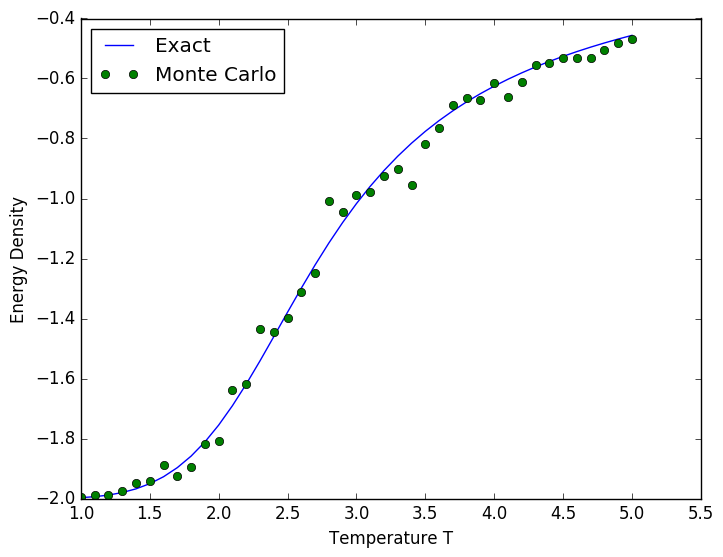
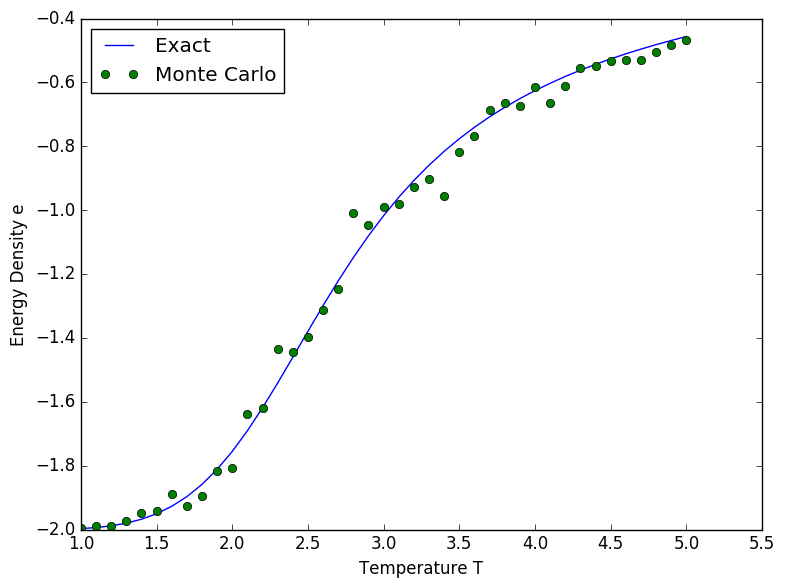
finished draft of sim5

diff --git a/sim5/latex/ising.tex b/sim5/latex/ising.tex
@@ -1,0 +1,85 @@
+\section{Simulating the Ising Model}
+Now we will look to simulate the two dimensional Ising spin model on an $(L \times L)$ square lattice.	The total energy of the system is 
+\begin{equation}
+\frac{1}{2}\sum_{i=0}^{L-1}\sum_{j=0}^{L-1}E_{i,j}
+\end{equation}
+with
+\begin{equation}
+E_{i,j} = -\sigma_{i,j}(\sigma_{i+1,j} + \sigma_{i-1,j} + \sigma_{i,j+1} + \sigma_{i,j-1}).
+\end{equation}
+Spins can take the values $\pm 1$ and we use periodic boundary conditions.
+
+The observables we are interested in are the energy density
+\begin{equation}
+e =\left \langle \frac{E}{L^2}\right\rangle
+\end{equation}
+and the magnetization density
+\begin{equation}
+m = \langle |\mu| \rangle
+\end{equation}
+\begin{equation}
+\mu = \frac{1}{L^2} \sum_{i=0}^{L-1}\sum_{j=0}^{L-1}\sigma_{i,j}
+\end{equation}
+
+The measurement of the total energy $E$ and magnetization density $\langle\mu\rangle$ for a given state are implemented as
+\listfile{../src/ising_lib.py}{src/ising\_lib.py}{16}{31}{Observable Measurement}{observe}
+\subsection{Exact Summation}
+We begin by computing the expectation values of these two observables directly from the partition function. This is possible if we use a box size of $L=4$ which we will use for the rest of the worksheet. Expectation values of observables can be calculated by
+\begin{equation}
+\left\langle A \right\rangle = \frac{\sum_\Phi A_\phi e^{-E_\phi /T}}{\sum_\Phi e^{-E_\phi /T}}.
+\label{eq:part}
+\end{equation}
+In order to calculate this sum we need to generate every possible state of the finite 2D Ising system. We do this by counting to $2^{16}$ in binary. All the necessary states are represented by all of the 16 digit binary numbers. We simply replace $0$ with $-1$ and map back onto a square lattice. The following function performs the neccesary generation.
+\listfile{../src/ising_lib.py}{src/ising\_lib.py}{44}{56}{State Generation}{states}
+
+Equipped with the set of states, we are prepared to calculate the sum in \ref{eq:part} for various temperatures $T = {1.0, 1.1, ..., 4.9, 5.0}$. This is accomplished for our observables of interest with the next code block.
+\listfile{../src/ising_exact.py}{src/ising\_exact.py}{6}{16}{Exact Summation}{exact}
+
+The blue curve in figures \ref{fig:ising_e} and \ref{fig:ising_m} show the expectaion values of our two observables due to exact summation.
+\subsection{Monte Carlo}
+The exact calculation in the preceding section is quite slow and will not withstand a simulation with more spins so we will use Monte Carlo simulation to obtain the same information. We will use the Metropolis-Hastings algorithm to select states. One Monte Carlo step is implemented as follows.
+\listfile{../src/ising_lib.py}{src/ising\_lib.py}{33}{42}{Monte Carlo Step}{isingmc}
+We then run $10000$ MC steps for each of our previously listed temperatures.
+\listfile{../src/ising_mc.py}{src/ising\_mc.py}{5}{15}{MC Simulation}{isingmcdat}
+The points in figures \ref{fig:ising_e} and \ref{fig:ising_m} show the values of magnetization and energy density measured via Monte Carlo.
+\subsection{Error Analysis}
+Since each step in our simulation is derived from the previous one, the data is obviously correlated and we can't use the obvious method for estimating error. In this case we will use binning analysis. This involves breaking our time series into $N_B$ bins. If the bin length $k$ is large enough then these bins will be uncorrelated. Clearly $\bar{O}_B = \bar{O}$ and we can calculate the squared error as
+\begin{equation}
+\epsilon^2_{\bar{O}} = \frac{1}{N_B(N_B-1))}\sum_{n=1}^{N_B}(O_{B,n} - \bar{O})^2,
+\end{equation}
+correlation time as
+\begin{equation}
+\tau = \frac{k \epsilon^2_{\bar{O}}}{2 N \sigma^2_{O_i}},
+\end{equation}
+and effective sample size as 
+\begin{equation}
+N_{\mathrm{eff}} = N/2\tau
+\end{equation}
+In order to take care of the free parameter k, we perform the entire error analysis with $1 \leq k \leq N/10$ and take the highest autocorrelation time.
+\listfile{../src/ising_lib.py}{src/ising\_lib.py}{65}{93}{Error Analysis}{error}
+
+In order to test our error analysis we will calculate statistics about a bivariate Gaussian. We use the following function to generate samples from a bivariate Gaussian.
+\listfile{../src/ising_lib.py}{src/ising\_lib.py}{58}{63}{Bivariate Gaussian}{gauss}
+We choose $N = 1e6$ and $\rho = 0.99005$ and the autocorrelation time is known to be
+\begin{equation}
+\tau = \frac{1}{2}\frac{1+\rho}{1-\rho} \approx 100.003
+\end{equation}
+Using our error\_analysis function we find
+\begin{equation}
+\bar{O}=-0.0054, \quad k = 15625, \quad \tau = 104.2, \quad N_\mathrm{eff} = 4699.6, \quad \epsilon^2_{\bar{O}} = 0.0143
+\end{equation}
+Finally we use our analysis program to calculate the error in the MC measurements of energy and magnetization density.
+\begin{figure}[ht]
+	\centering
+	\includegraphics[width=0.7\textwidth]{../fig/errorplot_e.png}
+	\caption{
+		Energy density of our 2D Ising spin system as a function of temperature. The blue curve is due to exact summation and the points refer to the Monte Carlo algorithm. Error bars are calculated using binning analysis.}
+	\label{fig:ising_e}
+\end{figure}
+\begin{figure}[ht]
+	\centering
+	\includegraphics[width=0.7\textwidth]{../fig/errorplot_m.png}
+	\caption{
+		Magnetization density of our 2D Ising spin system as a function of temperature. The blue curve is due to exact summation and the points refer to the Monte Carlo algorithm. Error bars are calculated using binning analysis.}
+	\label{fig:ising_m}
+\end{figure}

diff --git a/sim5/src/ising_lib.py b/sim5/src/ising_lib.py
@@ -31,8 +31,7 @@ def mag(state, L):
     return np.abs(mu/(L*L))
 
 def montecarlo(T, state, L):
-    # Performs a single Monte Carlo step on a state with side length L using the 
-    # Metropolis-Hastings algorithm
+    # Performs a single Monte Carlo step on a state with side length L using the Metropolis-Hastings algorithm
     i = np.random.randint(0,L)
     j = np.random.randint(0,L)
     delta = 2*state[i,j]*(state[(i-1)%L,j] + state[(i+1)%L,j] + state[i,(j+1)%L] 
@@ -43,8 +42,7 @@ def montecarlo(T, state, L):
         state[i,j] *= -1
 
 def generate(states):
-    # Generates all possible states with a side length L = 4. Don't judge me for this
-    # monstrosity.
+    # Generates all possible states with a side length L = 4
     state = np.zeros([4,4])
     for i in range(2**16):
         binstr = "{0:b}".format(i)
@@ -65,8 +63,9 @@ def bivariate_gaussian(N, rho):
     return e
 
 def error_analyze(e):
-    # Given a time series of observables, returns the mean, size of bins, autocorrelation time,
-    # effective number of samples, and measured error of the mean using binning analysis
+    # Given a time series of observables, returns the mean, size of bins,
+    # autocorrelation time, effective number of samples, 
+    # and measured error of the mean using binning analysis
     k_final = 0
     tau_final = 0
     N_eff = 0

diff --git a/sim5/latex/sim5.tex b/sim5/latex/sim5.tex
@@ -100,7 +100,8 @@ exponent-product=\cdot }
 \newcommand{\dd}{\text{d}} 							% Differential
 \newcommand{\p}{\partial} 								% Partielles Differential
 \newcommand{\D}{\Delta} 								% Fehler / Laplace
-\newcommand{\order}[1]{\mathcal{O}\left( #1 \right)}
+\newcommand{\order}[1]{\math\newpage
+cal{O}\left( #1 \right)}
 \newcommand{\abs}[1]{\left| #1\right|} 					% Betrag
 \newcommand{\Max}[1]{\max \left\lbrace #1\right\rbrace} % max{}
 \newcommand{\Min}[1]{\min \left\lbrace #1\right\rbrace} % min{}
@@ -129,7 +130,8 @@ exponent-product=\cdot }
 \newcommand{\Tan}[1]{\text{tan}\left( #1 \right)}		% tan()
 \newcommand{\Asin}[1]{\text{asin}\left( #1 \right)}		% asin()
 \newcommand{\Acos}[1]{\text{acos}\left( #1 \right)}		% acos()
-\newcommand{\Atan}[1]{\text{atan} \left( #1 \right)}	% atan()
+\newcommand{\Atan}[1]{\text{at\newpage
+an} \left( #1 \right)}	% atan()
 
 % Eigene Vektor Kommandos
 \newcommand{\tovec}[2]{\begin{pmatrix}#1\\ #2\end{pmatrix}}	% 2D-Vektor
@@ -219,8 +221,7 @@ matriculation numbers: &3122118 &3216338\\
 
 \input{simple.tex}
 \input{importance}
-
-
+\input{ising}
 
 \end{document}
 

diff --git a/sim5/src/ising_plot.py b/sim5/src/ising_plot.py
@@ -17,12 +17,14 @@ plt.plot(T, e0, label='Exact')
 plt.plot(T, e2, 'o', label='Monte Carlo')
 plt.legend(loc='best')
 plt.xlabel('Temperature T')
-plt.ylabel('Energy Density')
+plt.ylabel('Energy Density e')
+plt.tight_layout()
 plt.savefig('../fig/isingplot_e.png', bbox_inches='tight')
 plt.figure()
 plt.plot(T, m0, label='Exact')
 plt.plot(T, m2, 'o', label='Monte Carlo')
 plt.legend(loc='best')
 plt.xlabel('Temperature T')
-plt.ylabel('Magnetization Density')
+plt.ylabel('Magnetization Density m')
+plt.tight_layout()
 plt.savefig('../fig/isingplot_m.png', bbox_inches='tight')
